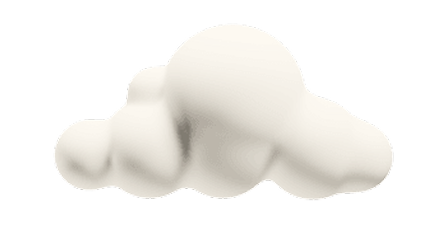
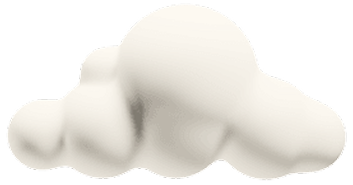
add images and add links

diff --git a/index.html b/index.html
@@ -6,6 +6,7 @@
   <title>Abby Thompson — UX/UI Product Designer</title>
   <link rel="preconnect" href="https://fonts.googleapis.com">
   <link rel="preconnect" href="https://fonts.gstatic.com" crossorigin>
+  <link rel="icon" type="image/png" href="/images/Abby Icon.png">
   <!-- Space Grotesk is a placeholder for General Grotesk — swap --font-display once you have the font files -->
   <link href="https://fonts.googleapis.com/css2?family=Space+Grotesk:wght@400;500;600;700&family=Inter:ital,wght@0,300;0,400;0,500;1,400&display=swap" rel="stylesheet">
   <link rel="stylesheet" href="style.css">
@@ -101,16 +102,16 @@
         </div>
         <div class="cs-card-group">
           <div class="cs-card cs-main" data-modal="vertice">
-            <div class="mock-screen mock-dark"></div>
+            <img src="images/Vertice/New request.png" alt="New request" class="mock-screen mock-dark">
             <div class="cs-overlay"><span>View case study →</span></div>
           </div>
           <div class="cs-side-stack">
             <div class="cs-card cs-secondary">
-              <div class="mock-screen mock-light"></div>
+              <img src="images/Vertice/New request.png" alt="New request" class="mock-screen mock-light">
               <div class="cs-overlay"><span>Contracts table</span></div>
             </div>
             <div class="cs-card cs-secondary">
-              <div class="mock-screen mock-light accent"></div>
+              <img src="images/Vertice/New request.png" alt="New request" class="mock-screen mock-light accent">
               <div class="cs-overlay"><span>Contract details</span></div>
             </div>
           </div>
@@ -129,13 +130,13 @@
         <div class="case-study-card" data-href="#">
           <div class="card-grid layout-thirds">
             <div class="card-screen">
-              <div class="mock-screen mock-social"></div>
+              <img src="images/Vertice/New request.png" alt="New request" class="mock-screen mock-social">
             </div>
             <div class="card-screen">
-              <div class="mock-screen mock-social"></div>
+              <img src="images/Vertice/New request.png" alt="New request" class="mock-screen mock-social">
             </div>
             <div class="card-screen">
-              <div class="mock-screen mock-social"></div>
+              <img src="images/Vertice/New request.png" alt="New request" class="mock-screen mock-social">
             </div>
           </div>
           <div class="card-hover-overlay">
@@ -155,16 +156,16 @@
         </div>
         <div class="cs-card-group">
           <div class="cs-card cs-main" data-modal="atlassian">
-            <div class="mock-screen mock-light blue-tint"></div>
+            <img src="images/Vertice/New request.png" alt="New request" class="mock-screen mock-light blue-tint">
             <div class="cs-overlay"><span>View case study →</span></div>
           </div>
           <div class="cs-side-stack">
             <div class="cs-card cs-secondary">
-              <div class="mock-screen mock-light blue-tint"></div>
+              <img src="images/Vertice/New request.png" alt="New request" class="mock-screen mock-light blue-tint">
               <div class="cs-overlay"><span>Jira board</span></div>
             </div>
             <div class="cs-card cs-secondary">
-              <div class="mock-screen mock-light blue-tint accent-blue"></div>
+              <img src="images/Vertice/New request.png" alt="New request" class="mock-screen mock-light blue-tint accent-blue">
               <div class="cs-overlay"><span>Issue view</span></div>
             </div>
           </div>
@@ -214,8 +215,7 @@
     <div class="section-inner contact-inner">
       <ul class="contact-list">
         <li>
-          <!-- Replace with your actual LinkedIn URL -->
-          <a href="https://linkedin.com" target="_blank" rel="noopener noreferrer">
+          <a href="https://www.linkedin.com/in/abbythompson/" target="_blank" rel="noopener noreferrer">
             <svg width="15" height="15" viewBox="0 0 16 16" fill="none" aria-hidden="true">
               <rect x="1" y="1" width="14" height="14" rx="2.5" stroke="currentColor" stroke-width="1.5" fill="none"/>
               <path d="M4.5 6.5V12" stroke="currentColor" stroke-width="1.5" stroke-linecap="round"/>
@@ -226,13 +226,12 @@
           </a>
         </li>
         <li>
-          <!-- Replace with your actual email -->
-          <a href="mailto:[email redacted]">
+          <a href="mailto:[email redacted]">
             <svg width="15" height="15" viewBox="0 0 16 16" fill="none" aria-hidden="true">
               <rect x="1" y="3" width="14" height="10" rx="2" stroke="currentColor" stroke-width="1.5" fill="none"/>
               <path d="M1.5 4.5L8 9.5L14.5 4.5" stroke="currentColor" stroke-width="1.5" stroke-linecap="round"/>
             </svg>
-            Email me [email redacted]
+            Email me at [email redacted]
           </a>
         </li>
         <li>
@@ -248,8 +247,8 @@
       </ul>
     </div>
     <div class="footer-bar">
-      <span>Abby Thompson © 2026, </span>
-      <span><a href="https://yourwebsite.com" target="_blank" rel="noopener noreferrer">Built by me ♡</a></span>
+      <span>Abby Thompson © 2026</span>
+      <span><a href="https://github.com/abbyythompson/abbyythompson.github.io" target="_blank" rel="noopener noreferrer">Built by me ♡</a></span>
     </div>
   </footer>
 

diff --git a/style.css b/style.css
@@ -682,7 +682,18 @@ section { position: relative; overflow: clip; }
 .cs-card .mock-screen {
   aspect-ratio: unset;
   height: 100%;
-  border-radius: 0;
+  border-radius: 6px;
+  overflow: hidden;
+}
+
+/* Ensure image elements with the mock-screen class fill their slot
+   and keep rounded corners */
+img.mock-screen {
+  width: 100%;
+  height: 100%;
+  display: block;
+  object-fit: cover;
+  border-radius: 6px;
 }
 
 .cs-main {